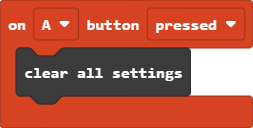
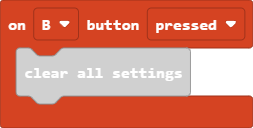
Changed reset button

Changed region(s): [[0.0553, 0.3438, 0.7747, 0.8438], [0.166, 0.1562, 0.2213, 0.25]]

diff --git a/main.ts b/main.ts
@@ -1,4 +1,4 @@
-controller.A.onEvent(ControllerButtonEvent.Pressed, function () {
+controller.B.onEvent(ControllerButtonEvent.Pressed, function () {
     blockSettings.clear()
 })
 info.onCountdownEnd(function () {
